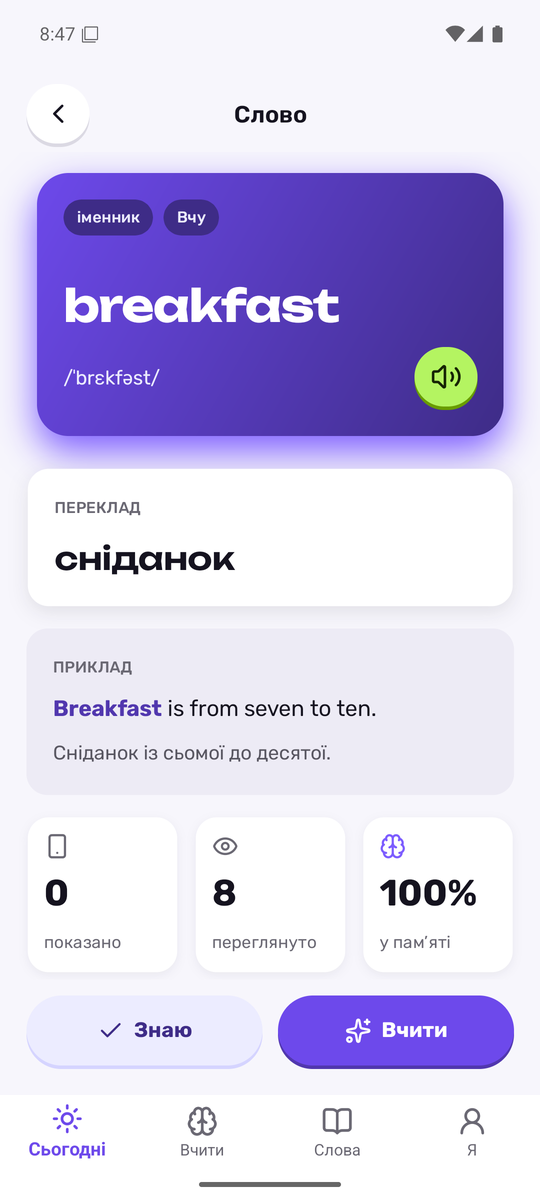
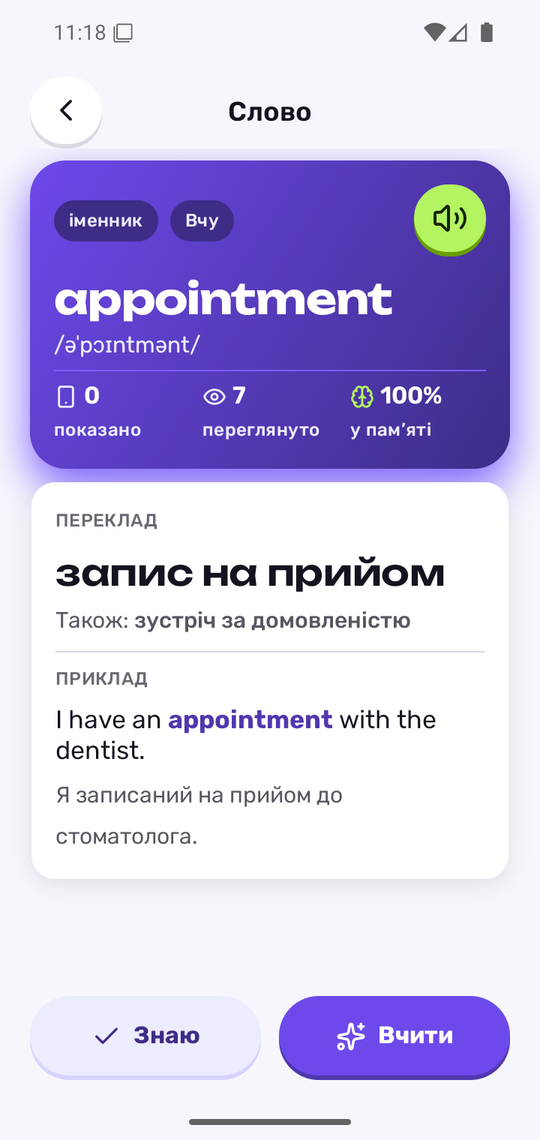
fix(word-card): fit the whole card on one screen without scrolling
- counters move into the hero card as a compact row; translation and example share one card; reveal button is compact; tab bar hidden on the detail page
- hero words scale down by length (word.hero / headline.lg / headline.md) so long lemmas like "appointment" never truncate; applied to Today, the word card and the session stimulus
- tighter vertical rhythm: TopBar 48, smaller bottom bar inset, shorter hint text
- verified on 360x760 (fits in both states) and 360x640 (fits before reveal; the last line of the example translation needs a small scroll after reveal)

diff --git a/src/mobile/Burdock.Presentation/Views/WordCardPage.xaml b/src/mobile/Burdock.Presentation/Views/WordCardPage.xaml
@@ -4,16 +4,20 @@
              xmlns:toolkit="http://schemas.microsoft.com/dotnet/2022/maui/toolkit"
              xmlns:vm="clr-namespace:Burdock.Presentation.ViewModels"
              xmlns:controls="clr-namespace:Burdock.Presentation.Controls"
+             xmlns:converters="clr-namespace:Burdock.Presentation.Converters"
              xmlns:icons="clr-namespace:Burdock.Presentation.Resources.Icons"
              xmlns:strings="clr-namespace:Burdock.Presentation.Resources.Strings"
              x:Class="Burdock.Presentation.Views.WordCardPage"
              x:DataType="vm:WordCardViewModel"
              Shell.NavBarIsVisible="False"
+             Shell.TabBarIsVisible="False"
              Title="{x:Static strings:AppResources.Word_Title}">
-    <!-- S-11 «Картка слова» (spec 03): hero (word, IPA, chips, speaker), translation hidden until tapped, highlighted example, counters, «Знаю» / «Вчити». -->
+    <!-- S-11 «Картка слова» (spec 03): one screen, no scrolling at default text size — hero, translation + example in one card, compact counters, two actions.
+         The ScrollView only kicks in for accessibility text sizes. -->
     <ContentPage.Resources>
         <toolkit:IsEqualConverter x:Key="IsEqualConverter" />
         <toolkit:InvertedBoolConverter x:Key="InvertedBoolConverter" />
+        <converters:LemmaFontSizeConverter x:Key="LemmaFontSize" />
     </ContentPage.Resources>
 
     <Grid RowDefinitions="Auto,*,Auto">
@@ -28,94 +32,99 @@
                HorizontalTextAlignment="Center" VerticalOptions="Center" Margin="{StaticResource Space6}"
                IsVisible="{Binding State, Converter={StaticResource IsEqualConverter}, ConverterParameter={x:Static vm:ViewState.Error}}" />
 
-        <ScrollView Grid.Row="1" IsVisible="{Binding State, Converter={StaticResource IsEqualConverter}, ConverterParameter={x:Static vm:ViewState.Ready}}">
-            <VerticalStackLayout Spacing="{StaticResource Space4}" Padding="{StaticResource PageInsetTop}" MaximumWidthRequest="{StaticResource SizeContentMaxWidth}">
+        <ScrollView Grid.Row="1" VerticalScrollBarVisibility="Never" IsVisible="{Binding State, Converter={StaticResource IsEqualConverter}, ConverterParameter={x:Static vm:ViewState.Ready}}">
+            <VerticalStackLayout Spacing="{StaticResource Space2}" Padding="{StaticResource PageInsetTop}" MaximumWidthRequest="{StaticResource SizeContentMaxWidth}">
 
-                <!-- Hero -->
-                <Border Style="{StaticResource HeroCard}" Margin="{StaticResource Space2}">
-                    <VerticalStackLayout Spacing="{StaticResource Space2}">
-                        <HorizontalStackLayout Spacing="{StaticResource Space2}">
-                            <Border Style="{StaticResource ChipOnHero}">
-                                <Label Text="{Binding PartOfSpeech}" Style="{StaticResource ChipTextOnHero}" />
-                            </Border>
-                            <Border Style="{StaticResource ChipOnHero}">
-                                <Label Text="{Binding StateLabel}" Style="{StaticResource ChipTextOnHero}" />
-                            </Border>
-                        </HorizontalStackLayout>
-                        <Label Text="{Binding Lemma}" Style="{StaticResource OnHeroWord}" Margin="{StaticResource InsetTopLg}" SemanticProperties.HeadingLevel="Level1" />
-                        <Grid ColumnDefinitions="*,Auto" ColumnSpacing="{StaticResource Space3}">
-                            <Label Grid.Column="0" Text="{Binding Ipa}" Style="{StaticResource OnHeroIpa}" VerticalOptions="Center" />
+                <!-- Hero: chips + speaker in one row, word, IPA -->
+                <Border Style="{StaticResource HeroCard}" Padding="{StaticResource Space4}">
+                    <Grid RowDefinitions="Auto,Auto,Auto,Auto,Auto" RowSpacing="0">
+                        <Grid Grid.Row="0" ColumnDefinitions="*,Auto" ColumnSpacing="{StaticResource Space2}">
+                            <HorizontalStackLayout Grid.Column="0" Spacing="{StaticResource Space2}" VerticalOptions="Center">
+                                <Border Style="{StaticResource ChipOnHero}">
+                                    <Label Text="{Binding PartOfSpeech}" Style="{StaticResource ChipTextOnHero}" />
+                                </Border>
+                                <Border Style="{StaticResource ChipOnHero}">
+                                    <Label Text="{Binding StateLabel}" Style="{StaticResource ChipTextOnHero}" />
+                                </Border>
+                            </HorizontalStackLayout>
                             <controls:PushButton Grid.Column="1" Style="{StaticResource PushHeroIcon}" Icon="{x:Static icons:Icon.Volume2}" Command="{Binding SpeakCommand}"
                                                  SemanticProperties.Description="{x:Static strings:AppResources.Word_Speak_Button}" />
                         </Grid>
-                    </VerticalStackLayout>
+                        <Label Grid.Row="1" Text="{Binding Lemma}" Style="{StaticResource OnHeroWord}" FontSize="{Binding Lemma, Converter={StaticResource LemmaFontSize}}" Margin="{StaticResource InsetTopSm}" LineBreakMode="TailTruncation" SemanticProperties.HeadingLevel="Level1" />
+                        <Label Grid.Row="2" Text="{Binding Ipa}" Style="{StaticResource OnHeroIpa}" />
+                        <BoxView Grid.Row="3" Style="{StaticResource HeroDivider}" Margin="{StaticResource InsetTopSm}" />
+                        <!-- Counters (ADR 0015: only confirmed is «переглянуто») -->
+                        <Grid Grid.Row="4" ColumnDefinitions="*,*,*" ColumnSpacing="{StaticResource Space2}" Margin="{StaticResource InsetTopSm}" SemanticProperties.Description="{Binding ExposuresText}">
+                            <VerticalStackLayout Grid.Column="0" Spacing="0">
+                                <HorizontalStackLayout Spacing="{StaticResource Space1}">
+                                    <Label Text="{x:Static icons:Icon.Smartphone}" Style="{StaticResource IconGlyphSm}" TextColor="{AppThemeBinding Light={StaticResource ColorWidgetIpaLight}, Dark={StaticResource ColorWidgetIpaDark}}" />
+                                    <Label Text="{Binding ScheduledExposures}" Style="{StaticResource OnHeroStat}" />
+                                </HorizontalStackLayout>
+                                <Label Text="{x:Static strings:AppResources.Word_Stat_Scheduled}" Style="{StaticResource OnHeroCaption}" />
+                            </VerticalStackLayout>
+                            <VerticalStackLayout Grid.Column="1" Spacing="0">
+                                <HorizontalStackLayout Spacing="{StaticResource Space1}">
+                                    <Label Text="{x:Static icons:Icon.Eye}" Style="{StaticResource IconGlyphSm}" TextColor="{AppThemeBinding Light={StaticResource ColorWidgetIpaLight}, Dark={StaticResource ColorWidgetIpaDark}}" />
+                                    <Label Text="{Binding ConfirmedExposures}" Style="{StaticResource OnHeroStat}" />
+                                </HorizontalStackLayout>
+                                <Label Text="{x:Static strings:AppResources.Word_Stat_Confirmed}" Style="{StaticResource OnHeroCaption}" />
+                            </VerticalStackLayout>
+                            <VerticalStackLayout Grid.Column="2" Spacing="0" SemanticProperties.Description="{Binding RetrievabilityText}">
+                                <HorizontalStackLayout Spacing="{StaticResource Space1}">
+                                    <Label Text="{x:Static icons:Icon.Brain}" Style="{StaticResource IconGlyphSm}" TextColor="{AppThemeBinding Light={StaticResource ColorWidgetAccentLight}, Dark={StaticResource ColorWidgetAccentDark}}" />
+                                    <Label Text="{Binding RetrievabilityPercent}" Style="{StaticResource OnHeroStat}" IsVisible="{Binding HasRetrievability}" />
+                                    <Label Text="{x:Static strings:AppResources.Word_Stat_Memory_None}" Style="{StaticResource OnHeroStat}" IsVisible="{Binding HasRetrievability, Converter={StaticResource InvertedBoolConverter}}" />
+                                </HorizontalStackLayout>
+                                <Label Text="{x:Static strings:AppResources.Word_Stat_Memory}" Style="{StaticResource OnHeroCaption}" />
+                            </VerticalStackLayout>
+                        </Grid>
+                    </Grid>
                 </Border>
 
-                <!-- Translation: hidden until tapped (spec 06 two-track model: guess first) -->
-                <Border Style="{StaticResource CardElevated}">
-                    <Grid>
-                        <VerticalStackLayout Spacing="{StaticResource Space4}" IsVisible="{Binding TranslationRevealed, Converter={StaticResource InvertedBoolConverter}}">
+                <!-- Translation (guess first, spec 06 two-track model) and example in one card -->
+                <Border Style="{StaticResource CardElevated}" Padding="{StaticResource Space4}">
+                    <VerticalStackLayout Spacing="{StaticResource Space2}">
+                        <VerticalStackLayout Spacing="{StaticResource Space2}" IsVisible="{Binding TranslationRevealed, Converter={StaticResource InvertedBoolConverter}}">
                             <HorizontalStackLayout Spacing="{StaticResource Space3}">
                                 <Label Text="{x:Static icons:Icon.Lightbulb}" Style="{StaticResource IconGlyphLg}"
                                        TextColor="{AppThemeBinding Light={StaticResource ColorBrandPrimaryVividLight}, Dark={StaticResource ColorBrandPrimaryVividDark}}" />
                                 <Label Text="{x:Static strings:AppResources.Word_Reveal_Hint}" Style="{StaticResource TypeTitleMd}" VerticalOptions="Center" />
                             </HorizontalStackLayout>
-                            <controls:PushButton Style="{StaticResource PushTonal}" Text="{x:Static strings:AppResources.Word_Reveal_Button}" Icon="{x:Static icons:Icon.Eye}" Command="{Binding RevealCommand}" />
+                            <controls:PushButton Style="{StaticResource PushTonal}" HeightRequest="{StaticResource SizeTouchTargetMin}" Text="{x:Static strings:AppResources.Word_Reveal_Button}" Icon="{x:Static icons:Icon.Eye}" Command="{Binding RevealCommand}" />
                         </VerticalStackLayout>
-                        <VerticalStackLayout Spacing="{StaticResource Space2}" IsVisible="{Binding TranslationRevealed}">
+                        <VerticalStackLayout Spacing="{StaticResource Space1}" IsVisible="{Binding TranslationRevealed}">
                             <Label Text="{x:Static strings:AppResources.Word_Translation_Heading}" Style="{StaticResource Eyebrow}" />
                             <Label Text="{Binding Translation}" Style="{StaticResource TypeHeadlineMd}" />
-                            <Label Text="{x:Static strings:AppResources.Word_AlsoMeans_Heading}" Style="{StaticResource Eyebrow}" IsVisible="{Binding HasAlsoMeans}" Margin="{StaticResource InsetTopMd}" />
-                            <Label Text="{Binding AlsoMeans}" Style="{StaticResource TypeBodyMd}" IsVisible="{Binding HasAlsoMeans}" />
+                            <Label Style="{StaticResource TypeBodyMd}" IsVisible="{Binding HasAlsoMeans}"
+                                   TextColor="{AppThemeBinding Light={StaticResource ColorTextSecondaryLight}, Dark={StaticResource ColorTextSecondaryDark}}">
+                                <Label.FormattedText>
+                                    <FormattedString>
+                                        <Span Text="{x:Static strings:AppResources.Word_AlsoMeans_Inline}" />
+                                        <Span Text="{Binding AlsoMeans}" FontFamily="RubikMedium" />
+                                    </FormattedString>
+                                </Label.FormattedText>
+                            </Label>
                         </VerticalStackLayout>
-                    </Grid>
-                </Border>
 
-                <!-- Example with the word in bold -->
-                <Border Style="{StaticResource CardSunken}" IsVisible="{Binding HasExample}">
-                    <VerticalStackLayout Spacing="{StaticResource Space2}">
-                        <Label Text="{x:Static strings:AppResources.Word_Example_Heading}" Style="{StaticResource Eyebrow}" />
-                        <Label Style="{StaticResource TypeBodyLg}">
-                            <Label.FormattedText>
-                                <FormattedString>
-                                    <Span Text="{Binding ExampleBefore}" />
-                                    <Span Text="{Binding ExampleMatch}" FontFamily="RubikBold"
-                                          TextColor="{AppThemeBinding Light={StaticResource ColorTextLinkLight}, Dark={StaticResource ColorTextLinkDark}}" />
-                                    <Span Text="{Binding ExampleAfter}" />
-                                </FormattedString>
-                            </Label.FormattedText>
-                        </Label>
-                        <Label Text="{Binding ExampleNative}" Style="{StaticResource TextSecondary}" IsVisible="{Binding TranslationRevealed}" />
+                        <BoxView Style="{StaticResource Divider}" IsVisible="{Binding HasExample}" />
+
+                        <VerticalStackLayout Spacing="{StaticResource Space1}" IsVisible="{Binding HasExample}">
+                            <Label Text="{x:Static strings:AppResources.Word_Example_Heading}" Style="{StaticResource Eyebrow}" />
+                            <Label Style="{StaticResource TypeBodyLg}">
+                                <Label.FormattedText>
+                                    <FormattedString>
+                                        <Span Text="{Binding ExampleBefore}" />
+                                        <Span Text="{Binding ExampleMatch}" FontFamily="RubikBold"
+                                              TextColor="{AppThemeBinding Light={StaticResource ColorTextLinkLight}, Dark={StaticResource ColorTextLinkDark}}" />
+                                        <Span Text="{Binding ExampleAfter}" />
+                                    </FormattedString>
+                                </Label.FormattedText>
+                            </Label>
+                            <Label Text="{Binding ExampleNative}" Style="{StaticResource TextSecondary}" IsVisible="{Binding TranslationRevealed}" />
+                        </VerticalStackLayout>
                     </VerticalStackLayout>
                 </Border>
 
-                <!-- Counters (ADR 0015: only confirmed is «переглянуто») -->
-                <Grid ColumnDefinitions="*,*,*" ColumnSpacing="{StaticResource Space3}" SemanticProperties.Description="{Binding ExposuresText}">
-                    <Border Grid.Column="0" Style="{StaticResource StatTile}">
-                        <VerticalStackLayout Spacing="{StaticResource Space1}">
-                            <Label Text="{x:Static icons:Icon.Smartphone}" Style="{StaticResource IconGlyph}" HorizontalOptions="Start"
-                                   TextColor="{AppThemeBinding Light={StaticResource ColorTextTertiaryLight}, Dark={StaticResource ColorTextTertiaryDark}}" />
-                            <Label Text="{Binding ScheduledExposures}" Style="{StaticResource TypeNumericStat}" />
-                            <Label Text="{x:Static strings:AppResources.Word_Stat_Scheduled}" Style="{StaticResource TextTertiary}" />
-                        </VerticalStackLayout>
-                    </Border>
-                    <Border Grid.Column="1" Style="{StaticResource StatTile}">
-                        <VerticalStackLayout Spacing="{StaticResource Space1}">
-                            <Label Text="{x:Static icons:Icon.Eye}" Style="{StaticResource IconGlyph}" HorizontalOptions="Start"
-                                   TextColor="{AppThemeBinding Light={StaticResource ColorTextTertiaryLight}, Dark={StaticResource ColorTextTertiaryDark}}" />
-                            <Label Text="{Binding ConfirmedExposures}" Style="{StaticResource TypeNumericStat}" />
-                            <Label Text="{x:Static strings:AppResources.Word_Stat_Confirmed}" Style="{StaticResource TextTertiary}" />
-                        </VerticalStackLayout>
-                    </Border>
-                    <Border Grid.Column="2" Style="{StaticResource StatTile}" IsVisible="{Binding HasRetrievability}" SemanticProperties.Description="{Binding RetrievabilityText}">
-                        <VerticalStackLayout Spacing="{StaticResource Space1}">
-                            <Label Text="{x:Static icons:Icon.Brain}" Style="{StaticResource IconGlyph}" HorizontalOptions="Start"
-                                   TextColor="{AppThemeBinding Light={StaticResource ColorBrandPrimaryVividLight}, Dark={StaticResource ColorBrandPrimaryVividDark}}" />
-                            <Label Text="{Binding RetrievabilityPercent}" Style="{StaticResource TypeNumericStat}" />
-                            <Label Text="{x:Static strings:AppResources.Word_Stat_Memory}" Style="{StaticResource TextTertiary}" />
-                        </VerticalStackLayout>
-                    </Border>
-                </Grid>
             </VerticalStackLayout>
         </ScrollView>
 

diff --git a/src/mobile/Burdock.Presentation/Resources/Styles/Components.xaml b/src/mobile/Burdock.Presentation/Resources/Styles/Components.xaml
@@ -12,7 +12,7 @@
     <!-- ===== Composite insets (4pt grid) ===== -->
     <Thickness x:Key="PageInset">20,0</Thickness>
     <Thickness x:Key="PageInsetTop">20,8,20,0</Thickness>
-    <Thickness x:Key="BottomBarInset">20,12,20,20</Thickness>
+    <Thickness x:Key="BottomBarInset">20,8,20,16</Thickness>
     <Thickness x:Key="ChipInset">12,6</Thickness>
     <Thickness x:Key="ChipInsetSm">10,4</Thickness>
     <Thickness x:Key="FieldInset">16,4</Thickness>
@@ -66,6 +66,18 @@
     <Style x:Key="OnHeroSecondary" TargetType="Label" BasedOn="{StaticResource TypeBodyMd}">
         <Setter Property="TextColor" Value="{AppThemeBinding Light={StaticResource ColorWidgetIpaLight}, Dark={StaticResource ColorWidgetIpaDark}}" />
     </Style>
+    <Style x:Key="OnHeroStat" TargetType="Label" BasedOn="{StaticResource TypeTitleMd}">
+        <Setter Property="TextColor" Value="{AppThemeBinding Light={StaticResource ColorWidgetWordLight}, Dark={StaticResource ColorWidgetWordDark}}" />
+        <Setter Property="VerticalOptions" Value="Center" />
+    </Style>
+    <Style x:Key="OnHeroCaption" TargetType="Label" BasedOn="{StaticResource TypeLabelSm}">
+        <Setter Property="TextColor" Value="{AppThemeBinding Light={StaticResource ColorWidgetIpaLight}, Dark={StaticResource ColorWidgetIpaDark}}" />
+        <Setter Property="LineBreakMode" Value="TailTruncation" />
+    </Style>
+    <Style x:Key="HeroDivider" TargetType="BoxView">
+        <Setter Property="HeightRequest" Value="{StaticResource BorderWidthHairline}" />
+        <Setter Property="Color" Value="{AppThemeBinding Light={StaticResource ColorWidgetDividerLight}, Dark={StaticResource ColorWidgetDividerDark}}" />
+    </Style>
     <Style x:Key="OnHeroIpa" TargetType="Label" BasedOn="{StaticResource TypeWordIpa}">
         <Setter Property="TextColor" Value="{AppThemeBinding Light={StaticResource ColorWidgetIpaLight}, Dark={StaticResource ColorWidgetIpaDark}}" />
     </Style>
@@ -113,6 +125,11 @@
         </Setter>
         <Setter Property="Padding" Value="{StaticResource Space4}" />
         <Setter Property="WidthRequest" Value="{StaticResource SizeWordTileWidth}" />
+    </Style>
+    <!-- Compact counter (S-11): number + caption, fits three in a row on a 360 pt screen. -->
+    <Style x:Key="StatChip" TargetType="Border" BasedOn="{StaticResource CardElevated}">
+        <Setter Property="Shadow" Value="{StaticResource ShadowElevation1}" />
+        <Setter Property="Padding" Value="{StaticResource ChipInsetSm}" />
     </Style>
     <Style x:Key="StatTile" TargetType="Border" BasedOn="{StaticResource CardElevated}">
         <Setter Property="Shadow" Value="{StaticResource ShadowElevation1}" />

diff --git a/src/mobile/Burdock.Presentation/Views/SessionPage.xaml b/src/mobile/Burdock.Presentation/Views/SessionPage.xaml
@@ -5,6 +5,7 @@
              xmlns:vm="clr-namespace:Burdock.Presentation.ViewModels"
              xmlns:views="clr-namespace:Burdock.Presentation.Views"
              xmlns:controls="clr-namespace:Burdock.Presentation.Controls"
+             xmlns:converters="clr-namespace:Burdock.Presentation.Converters"
              xmlns:icons="clr-namespace:Burdock.Presentation.Resources.Icons"
              xmlns:strings="clr-namespace:Burdock.Presentation.Resources.Strings"
              x:Class="Burdock.Presentation.Views.SessionPage"
@@ -16,6 +17,7 @@
     <ContentPage.Resources>
         <toolkit:IsEqualConverter x:Key="IsEqualConverter" />
         <toolkit:InvertedBoolConverter x:Key="InvertedBoolConverter" />
+        <converters:LemmaFontSizeConverter x:Key="LemmaFontSize" />
     </ContentPage.Resources>
 
     <Grid RowDefinitions="Auto,*,Auto" RowSpacing="{StaticResource Space4}">
@@ -38,7 +40,7 @@
         <ScrollView Grid.Row="1" IsVisible="{Binding State, Converter={StaticResource IsEqualConverter}, ConverterParameter={x:Static vm:ViewState.Ready}}">
             <VerticalStackLayout x:Name="ExerciseHost" Spacing="{StaticResource Space5}" Padding="{StaticResource PageInset}" MaximumWidthRequest="{StaticResource SizeContentMaxWidth}">
                 <Label Text="{Binding Prompt}" Style="{StaticResource LabelSecondary}" HorizontalTextAlignment="Center" />
-                <Label Text="{Binding Stimulus}" Style="{StaticResource TypeDisplayMd}" HorizontalTextAlignment="Center" IsVisible="{Binding IsMatching, Converter={StaticResource InvertedBoolConverter}}" />
+                <Label Text="{Binding Stimulus}" Style="{StaticResource TypeDisplayMd}" FontSize="{Binding Stimulus, Converter={StaticResource LemmaFontSize}}" HorizontalTextAlignment="Center" LineBreakMode="WordWrap" IsVisible="{Binding IsMatching, Converter={StaticResource InvertedBoolConverter}}" />
                 <Label Text="{Binding StimulusSecondary}" Style="{StaticResource TypeWordIpa}" HorizontalTextAlignment="Center" IsVisible="{Binding IsChoice}"
                        TextColor="{AppThemeBinding Light={StaticResource ColorTextTertiaryLight}, Dark={StaticResource ColorTextTertiaryDark}}" />
 

diff --git a/src/mobile/Burdock.Presentation/Views/TodayPage.xaml b/src/mobile/Burdock.Presentation/Views/TodayPage.xaml
@@ -16,6 +16,7 @@
     <ContentPage.Resources>
         <toolkit:IsEqualConverter x:Key="IsEqualConverter" />
         <converters:TopicColorConverter x:Key="TopicColor" />
+        <converters:LemmaFontSizeConverter x:Key="LemmaFontSize" />
     </ContentPage.Resources>
 
     <Grid RowDefinitions="*,Auto">
@@ -68,7 +69,7 @@
                                         </HorizontalStackLayout>
                                     </Border>
                                 </HorizontalStackLayout>
-                                <Label Text="{Binding Hero.Lemma}" Style="{StaticResource OnHeroWord}" Margin="{StaticResource InsetTopLg}" LineBreakMode="TailTruncation" />
+                                <Label Text="{Binding Hero.Lemma}" Style="{StaticResource OnHeroWord}" FontSize="{Binding Hero.Lemma, Converter={StaticResource LemmaFontSize}}" Margin="{StaticResource InsetTopLg}" LineBreakMode="TailTruncation" />
                                 <Label Text="{Binding Hero.Ipa}" Style="{StaticResource OnHeroIpa}" />
                                 <Grid ColumnDefinitions="Auto,*,Auto" ColumnSpacing="{StaticResource Space2}" Margin="{StaticResource InsetTopMd}">
                                     <Label Grid.Column="0" Text="{x:Static icons:Icon.Eye}" Style="{StaticResource IconGlyphSm}" TextColor="{AppThemeBinding Light={StaticResource ColorWidgetIpaLight}, Dark={StaticResource ColorWidgetIpaDark}}" />

diff --git a/src/mobile/Burdock.Presentation/Controls/TopBar.xaml b/src/mobile/Burdock.Presentation/Controls/TopBar.xaml
@@ -5,7 +5,7 @@
              x:Class="Burdock.Presentation.Controls.TopBar"
              x:Name="Root">
     <!-- TopBar (spec 02 section 3.11): our own header instead of the platform navigation bar; leading icon button, centred title, optional trailing view. -->
-    <Grid ColumnDefinitions="Auto,*,Auto" ColumnSpacing="{StaticResource Space3}" MinimumHeightRequest="{StaticResource SizePushButtonHeight}">
+    <Grid ColumnDefinitions="Auto,*,Auto" ColumnSpacing="{StaticResource Space3}" MinimumHeightRequest="{StaticResource SizeTouchTargetMin}">
         <controls:PushButton Grid.Column="0"
                              Style="{StaticResource PushIcon}"
                              Icon="{Binding LeadingIcon, Source={x:Reference Root}}"

diff --git a/src/mobile/Burdock.Presentation/Converters/LemmaFontSizeConverter.cs b/src/mobile/Burdock.Presentation/Converters/LemmaFontSizeConverter.cs
@@ -1,0 +1,25 @@
+using System.Globalization;
+
+namespace Burdock.Presentation.Converters;
+
+/// <summary>
+/// Hero words are set in Unbounded, which is wide: long lemmas step down from word.hero (≤ 9 letters) to headline.lg (≤ 12) and headline.md,
+/// so «appointment» or «understanding» fit a 360 pt screen without truncation. Sizes come from the FontSize* token resources.
+/// </summary>
+public sealed class LemmaFontSizeConverter : IValueConverter
+{
+    public object Convert(object? value, Type targetType, object? parameter, CultureInfo culture)
+    {
+        var length = (value as string)?.Length ?? 0;
+        var key = length switch
+        {
+            <= 9 => "FontSizeWordHero",
+            <= 12 => "FontSizeHeadlineLg",
+            _ => "FontSizeHeadlineMd",
+        };
+        var app = Microsoft.Maui.Controls.Application.Current;
+        return app is not null && app.Resources.TryGetValue(key, out var size) && size is double d ? d : 24d;
+    }
+
+    public object ConvertBack(object? value, Type targetType, object? parameter, CultureInfo culture) => throw new NotSupportedException();
+}
